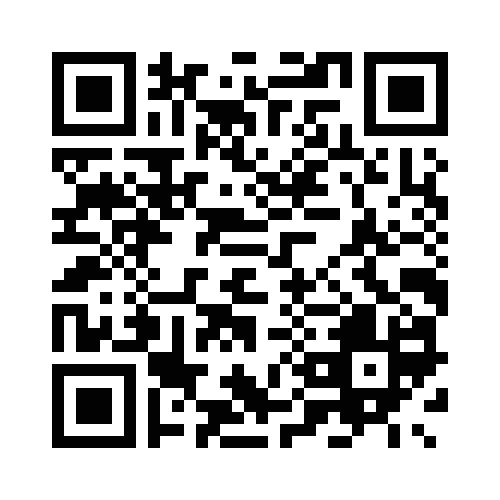
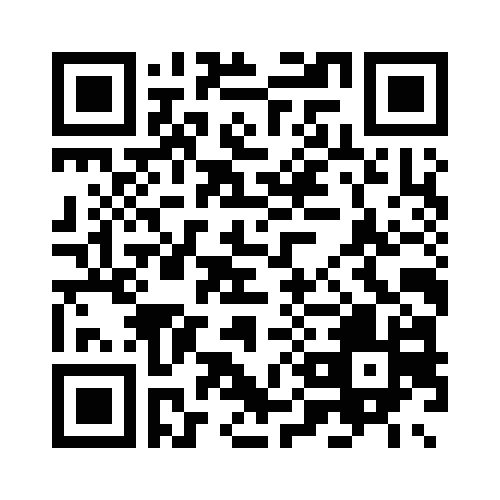
메뉴 관리 패널 카테고리 분류 및 메뉴 사진, 이름, 가격 시각화 작업

Changed region(s): [[0.09, 0.09, 0.51, 0.9], [0.84, 0.75, 0.9, 0.78]]

diff --git a/src/main/PosGUIMenuEditPanel.java b/src/main/PosGUIMenuEditPanel.java
@@ -1,0 +1,99 @@
+package main;
+
+import java.awt.BorderLayout;
+import java.awt.CardLayout;
+import java.awt.FlowLayout;
+import java.awt.GridLayout;
+import java.awt.Image;
+import java.awt.event.ActionEvent;
+import java.awt.event.ActionListener;
+import java.util.List;
+
+import javax.swing.Icon;
+import javax.swing.ImageIcon;
+import javax.swing.JButton;
+import javax.swing.JFrame;
+import javax.swing.JLabel;
+import javax.swing.JPanel;
+import javax.swing.JTabbedPane;
+
+import org.json.simple.JSONArray;
+import org.json.simple.JSONObject;
+
+public class PosGUIMenuEditPanel extends JPanel implements ActionListener{
+	
+	private CardLayout cards;
+	private JFrame frame;
+	private JButton backButton;
+	private Menu menu;
+	private JSONArray menuJson;
+	private JTabbedPane tp;
+	private JPanel[] categoryPanel;
+	
+	public PosGUIMenuEditPanel(CardLayout cards, JFrame frame) {
+		this.setLayout(null);
+		this.cards = cards;
+		this.frame = frame;
+		menu = new Menu();
+		menuJson = menu.getMenuJSON();
+		tp = new JTabbedPane();
+		initializeCategoryPanel();
+		
+		tp.setBounds(50,50,400,400);
+		insertCategoryPanelIntoTabbedyPanel();
+				
+		backButton = new JButton("BACK");
+		backButton.addActionListener(this);
+		
+		add(tp,BorderLayout.SOUTH);
+		add(backButton,BorderLayout.NORTH);
+	}
+
+	private void initializeCategoryPanel() {
+		int categorySize = menu.getCategorySize();
+		categoryPanel = new JPanel[categorySize];
+		
+		for(int i=0;i<categorySize;i++) {
+			categoryPanel[i] = new JPanel();
+			JSONObject obj = (JSONObject) menuJson.get(i);
+			JSONArray menuArr = (JSONArray)obj.get("menu");
+			for(int j=0;j<menuArr.size();j++) {
+				JPanel foodPanel = new JPanel();
+				foodPanel.setLayout(new GridLayout(3,1));
+				JSONObject food = (JSONObject)menuArr.get(j);
+				
+				ImageIcon foodIcon = new ImageIcon((String)food.get("img_url"));
+				ImageIcon foodImg = new ImageIcon(
+						(foodIcon.getImage()).getScaledInstance(50, 50, Image.SCALE_SMOOTH)
+						);
+				JLabel foodLabel = new JLabel(foodImg);				
+				JLabel nameLabel = new JLabel((String)food.get("name"));
+				JLabel priceLabel = new JLabel((String)food.get("price"));
+				foodPanel.add(foodLabel);
+				foodPanel.add(nameLabel);
+				foodPanel.add(priceLabel);
+											
+				categoryPanel[i].add(foodPanel);
+			}
+		}
+	}
+
+	public void insertCategoryPanelIntoTabbedyPanel() {
+		int categorySize = menu.getCategorySize();
+		List<String> categoryList = menu.getCategories();
+		for(int i=0;i<categorySize;i++) {
+			tp.add(categoryList.get(i),categoryPanel[i]);
+		}
+		JPanel plusPanel = new JPanel();
+		tp.add("+",plusPanel);
+	}
+
+	@Override
+	public void actionPerformed(ActionEvent e) {
+		// TODO Auto-generated method stub
+		if(e.getSource()==backButton) {
+			cards.show(frame.getContentPane(), "mainPanel");
+		}
+	}
+
+}

diff --git a/src/main/PosGUIQRPanel.java b/src/main/PosGUIQRPanel.java
@@ -4,6 +4,7 @@ import java.awt.BorderLayout;
 import java.awt.CardLayout;
 import java.awt.event.ActionEvent;
 import java.awt.event.ActionListener;
+import java.io.File;
 
 import javax.swing.Action;
 import javax.swing.ImageIcon;
@@ -12,32 +13,57 @@ import javax.swing.JFrame;
 import javax.swing.JLabel;
 import javax.swing.JPanel;
 
+import com.google.zxing.qrcode.encoder.QRCode;
+
 public class PosGUIQRPanel extends JPanel implements ActionListener{
 
 	private CardLayout cards;
 	private JFrame frame;
+	private JLabel QRLabel;
 	private JButton backButton;
+	private JButton createButton;
+	private JButton deleteButton;
+	private QrCode QrCode;
+	private ImageIcon QRImage;
 	
 	PosGUIQRPanel(CardLayout cards, JFrame frame){
 		this.cards = cards;
 		this.frame = frame;
-		this.setLayout(new BorderLayout());
+		QrCode = new QrCode();
 		
-		ImageIcon QRImage = new ImageIcon("QRCODE.jpg");
-		JLabel QRLabel = new JLabel(QRImage);
+		if(!QrCode.isExist()) {
+			QrCode.create();
+		}
+		
+		QRImage = new ImageIcon("QRCODE.jpg");
+		QRLabel = new JLabel(QRImage);
 		
 		backButton = new JButton("BACK");
 		backButton.addActionListener(this);
+		createButton = new JButton("CREATE");
+		createButton.addActionListener(this);
+		deleteButton = new JButton("DELETE");
+		deleteButton.addActionListener(this);
 		
-		add(QRLabel,BorderLayout.CENTER);
-		add(backButton, BorderLayout.SOUTH);
+		add(QRLabel);
+		add(backButton);
+		add(createButton);
+		add(deleteButton);
 	}
 
 	@Override
 	public void actionPerformed(ActionEvent e) {
 		// TODO Auto-generated method stub
 		if(e.getSource()==backButton) {
-			cards.next(frame.getContentPane());
+			cards.show(frame.getContentPane(), "mainPanel");
+		} else if(e.getSource()==deleteButton) {
+			QrCode.delete();
+			QRLabel.setText("Deleted");
+			QRLabel.setIcon(null);
+		} else if(e.getSource()==createButton) {
+			QrCode.create();
+			QRLabel.setText("");
+			QRLabel.setIcon(QRImage);
 		}
 	}
 }

diff --git a/src/main/QrCode.java b/src/main/QrCode.java
@@ -1,7 +1,11 @@
 package main;
 
 import java.awt.image.BufferedImage;
+import java.io.BufferedReader;
 import java.io.File;
+import java.io.IOException;
+import java.io.InputStreamReader;
+import java.net.URL;
 
 import javax.imageio.ImageIO;
 
@@ -13,11 +17,17 @@ import com.google.zxing.qrcode.QRCodeWriter;
 
 
 public class QrCode {
+	
+	private File QrFile;
+	
 	public QrCode() {
+		 QrFile = new File("QRCODE.jpg");
+	}
+	
+	public void create() {
 		try {
-			
 			QRCodeWriter writer = new QRCodeWriter();
-	        String param = "uofmobile://action?targetIp=112.214.137.70&targetPort=13";
+	        String param = "uofmobile://action?targetIp=" + getMyIP() + "&targetPort=10003";
 	        param = new String(param.getBytes("UTF-8"), "ISO-8859-1");
 	        BitMatrix matrix = writer.encode(param, BarcodeFormat.QR_CODE, 500, 500);
 
@@ -30,9 +40,27 @@ public class QrCode {
 	        BufferedImage qrimage = MatrixToImageWriter.toBufferedImage(matrix, config);
 	        
 			ImageIO.write(qrimage, "jpg", new File("QRCODE.jpg"));
-			
 		} catch (Exception e) {
 			System.out.print(e.getMessage());
 		}
+	}
+	
+	public void delete() {
+		QrFile.delete();
+	}
+	
+	public boolean isExist() {
+		if(QrFile.exists()) {
+			return true;
+		} else {
+			return false;
+		}
+	}
+	
+	public String getMyIP() throws IOException {
+		URL whatismyip = new URL("http://checkip.amazonaws.com");
+		BufferedReader in = new BufferedReader(new InputStreamReader(whatismyip.openStream()));
+		String ip = in.readLine();
+		return ip;
 	}
 }

diff --git a/src/main/Menu.java b/src/main/Menu.java
@@ -1,0 +1,49 @@
+package main;
+
+import java.io.BufferedReader;
+
+import java.io.FileInputStream;
+import java.io.FileNotFoundException;
+import java.io.FileReader;
+import java.io.IOException;
+import java.io.InputStreamReader;
+import java.util.ArrayList;
+import java.util.List;
+
+import org.json.simple.JSONArray;
+import org.json.simple.JSONObject;
+import org.json.simple.parser.JSONParser;
+import org.json.simple.parser.ParseException;
+
+public class Menu {
+	private JSONArray jsonArr;
+	
+	public Menu() {
+		JSONParser parser = new JSONParser();
+		try {
+			jsonArr = (JSONArray)(parser.parse(new FileReader("menu.json")));			
+		} catch (IOException | ParseException e) {
+			// TODO Auto-generated catch block
+			e.printStackTrace();
+		}
+	}
+	
+	public JSONArray getMenuJSON() {
+		return jsonArr;
+	}
+	
+	public List<String> getCategories() {
+		List<String> ret = new ArrayList<String>();
+		for(int i=0;i<jsonArr.size();i++) {
+			JSONObject categoryArr = (JSONObject) jsonArr.get(i);
+			String categoryStr = (String) categoryArr.get("category");
+			ret.add(categoryStr);
+		}
+		return ret;
+	}
+	
+	public int getCategorySize() {
+		return jsonArr.size();
+	}
+	
+}

diff --git a/src/main/Category.java b/src/main/Category.java
@@ -1,0 +1,60 @@
+package main;
+
+import java.util.ArrayList;
+import java.util.List;
+
+import javax.swing.ImageIcon;
+
+public class Category{
+	private String name;
+	private ImageIcon img;
+	
+	private Category parent;
+	private List<Category> siblings;
+	private List<Category> childrens;
+	
+	
+	public Category(String name, ImageIcon img) {
+		this.name = name;
+		this.img = img;
+		
+		siblings = new ArrayList<Category>();
+		childrens = new ArrayList<Category>();
+	}
+	
+	public String getName() {
+		return name;
+	}
+	
+	public Category getParent() {
+		return parent;
+	}
+	
+	public List<Category> getSiblings(){
+		return parent.getChildrens();
+	}
+	
+	public List<Category> getChildrens(){
+		return childrens;
+	}
+	
+	public List<Category> getDescendants(){
+		return null;
+	}
+	
+	public void addChild(Category category) {
+		childrens.add(category);
+		category.parent = this;
+	}
+	
+	public void addChildren(List<Category> categories) {
+		childrens.addAll(categories);
+		for(Category category : categories) {
+			category.parent = this;
+		}
+	}
+	
+	public String toString() {
+		return name;
+	}
+}

diff --git a/src/main/PosGUIMain.java b/src/main/PosGUIMain.java
@@ -32,8 +32,10 @@ public class PosGUIMain extends JFrame implements ActionListener{
 		
 		JPanel mainPanel = new PosGUIMainPanel(cards, this);
 		JPanel QRPanel = new PosGUIQRPanel(cards, this);
-		pane.add(mainPanel,"main");
-		pane.add(QRPanel,"QR");
+		JPanel menuEditPanel = new PosGUIMenuEditPanel(cards, this);
+		pane.add(mainPanel,"mainPanel");
+		pane.add(QRPanel,"QRPanel");
+		pane.add(menuEditPanel, "menuEditPanel");
 		
 		setVisible(true);
 	}
@@ -44,12 +46,8 @@ public class PosGUIMain extends JFrame implements ActionListener{
 	public void actionPerformed(ActionEvent e) {
 		// TODO Auto-generated method stub
 	}
-
+	
 	public static void main(String[] args) {
-		// TODO Auto-generated method stub
 		new PosGUIMain();
 	}
-
-	
-
 }

diff --git a/src/main/PosGUIMainPanel.java b/src/main/PosGUIMainPanel.java
@@ -73,7 +73,9 @@ public class PosGUIMainPanel extends JPanel implements ActionListener{
 	public void actionPerformed(ActionEvent e) {
 		// TODO Auto-generated method stub
 		if(e.getSource()==QRButton) {
-			cards.next(frame.getContentPane());		
+			cards.show(frame.getContentPane(), "QRPanel");
+		} else if(e.getSource()==menuEditButton) {
+			cards.show(frame.getContentPane(), "menuEditPanel");
 		}
 	}
 }

diff --git a/src/main/Main.java b/src/main/Main.java
@@ -10,8 +10,9 @@ import java.net.Socket;
 public class Main {
 
 	public static void main(String[] args) {
-
-		QrCode a = new QrCode();
+		
+		new PosGUIMain();
+		
 	}
 
 }
